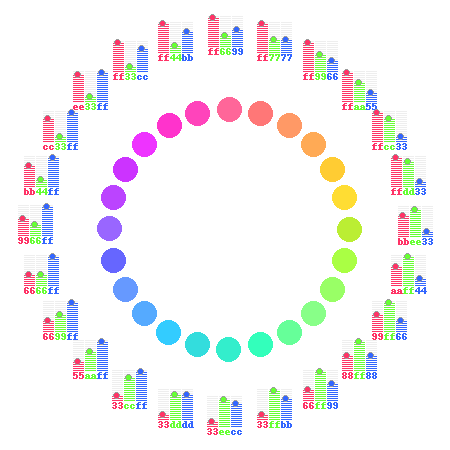
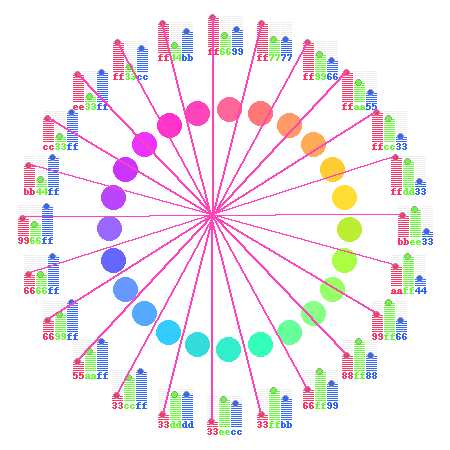
まずは赤レーザー

diff --git a/step8.py b/step8.py
@@ -1,0 +1,220 @@
+from PIL import Image, ImageDraw
+import math
+
+black = (0, 0, 0)
+red = (0xff, 0x33, 0x66)
+green = (0x66, 0xff, 0x33)
+blue = (0x33, 0x66, 0xff)
+light_gray = (0xee, 0xee, 0xee)
+white = (255, 255, 255)
+
+im = Image.new('RGB', (450, 450), white)
+draw = ImageDraw.Draw(im)
+
+
+def main():
+
+    # 0時の方向から時計回り
+    theta_list = [90, 75, 60, 45, 30, 15, 0, 345,
+                  330, 315, 300, 285, 270, 255, 240, 225, 210, 195, 180, 165, 150, 135, 120, 105]
+    # 0時を赤
+    color_list = [(0xff, 0x66, 0x99), (0xff, 0x77, 0x77),
+                  (0xff, 0x99, 0x66), (0xff, 0xaa, 0x55),
+                  (0xff, 0xcc, 0x33), (0xff, 0xdd, 0x33),
+                  (0xbb, 0xee, 0x33), (0xaa, 0xff, 0x44),
+                  (0x99, 0xff, 0x66), (0x88, 0xff, 0x88),
+                  (0x66, 0xff, 0x99), (0x33, 0xff, 0xbb),
+                  (0x33, 0xee, 0xcc), (0x33, 0xdd, 0xdd),
+                  (0x33, 0xcc, 0xff), (0x55, 0xaa, 0xff),
+                  (0x66, 0x99, 0xff), (0x66, 0x66, 0xff),
+                  (0x99, 0x66, 0xff), (0xbb, 0x44, 0xff),
+                  (0xcc, 0x33, 0xff), (0xee, 0x33, 0xff),
+                  (0xff, 0x33, 0xcc), (0xff, 0x44, 0xbb)]
+
+    # 環状 ゲージ 描画
+    gauge_center_coords = center_coords_on_ring(225, 225, 190, theta_list)
+    paint_gauge_ring(gauge_center_coords, color_list)
+
+    # 環状 色セル 描画
+    color_cell_center_coords = center_coords_on_ring(225, 225, 120, theta_list)
+    size = len(color_cell_center_coords)
+    for i in range(0, size):
+        x, y = color_cell_center_coords[i]
+
+        circle_w = 16
+
+        fill_color = color_list[i]
+        draw.ellipse((x-circle_w/2, y-circle_w/2, x +
+                      circle_w, y+circle_w), fill=fill_color)
+
+    # ３本ゲージ各天辺座標計算
+    three_gauges_top_coords = []
+    size = len(gauge_center_coords)
+    for i in range(0, size):
+        p = gauge_center_coords[i]
+        color = color_list[i]
+
+        # 黄緑の中心から見て、赤と青の中心が離れているピクセル数
+        horizontal_interval = 12
+
+        # 赤ゲージ
+        rx, ry = coord_on_gauge(p, color[0])
+        # ゲージ3+隙間1 の 4 なんでゲージは左にずれているので、その１ピクセル分調整（本来はゲージ全体を1ピクセル右にずらすのも合わせるべき）
+        rx = rx - 1 - horizontal_interval
+
+        # 緑ゲージ
+        gx, gy = coord_on_gauge(p, color[1])
+        gx = gx - 1
+
+        # 青ゲージ
+        bx, by = coord_on_gauge(p, color[2])
+        bx = bx - 1 + horizontal_interval
+
+        three_gauges_top_coords.append(((rx, ry), (gx, gy), (bx, by)))
+
+    # 赤緑青個別ゲージ座標
+    for top_coords in three_gauges_top_coords:
+
+        # １ドットの点を打つと、次の４パターンにぶれる。1ピクセル単位の精度に期待しないこと
+        #
+        # パターン１  パターン２ パターン３  パターン４
+        #  x         xx        xxx        xx
+        # x x        xx        xxx        xx
+        #  x                              xx
+        point_w = 4
+
+        # 赤ゲージ
+        x, y = top_coords[0]
+        # ゲージ3+隙間1 の 4 なんでゲージは左にずれているので、その１ピクセル分調整（本来はゲージ全体を1ピクセル右にずらすのも合わせるべき）
+        x -= 1
+        draw.ellipse((x-point_w/2, y-point_w/2, x+point_w, y+point_w), fill=red,
+                     outline=(155, 155, 155))
+
+        # 緑ゲージ
+        x, y = top_coords[1]
+        x -= 1
+        draw.ellipse((x-point_w/2, y-point_w/2, x+point_w, y+point_w), fill=green,
+                     outline=(155, 155, 155))
+
+        # 青ゲージ
+        x, y = top_coords[2]
+        x -= 1
+        draw.ellipse((x-point_w/2, y-point_w/2, x+point_w, y+point_w), fill=blue,
+                     outline=(155, 155, 155))
+
+    # 赤レーザー
+    half_size = int(len(three_gauges_top_coords)/2)
+    for i in range(0, half_size):
+        top_coords1 = three_gauges_top_coords[i]
+        top_coords2 = three_gauges_top_coords[i+half_size]
+        # 赤ゲージ１
+        src_x, src_y = top_coords1[0]
+        # 赤ゲージ２
+        dst_x, dst_y = top_coords2[0]
+
+        draw.line((src_x, src_y, dst_x, dst_y), fill=color, width=2)
+        pass
+
+    im.save('shared/pillow_imagedraw.png', quality=95)
+
+
+def center_coords_on_ring(left, top, range, theta_list):
+    coolds = []
+    for theta in theta_list:
+        x = range*math.cos(math.radians(theta))+left
+        # yは上下反転
+        y = -range*math.sin(math.radians(theta))+top
+        coolds.append((x, y))
+    return coolds
+
+
+def paint_gauge_ring(gauge_center_coords, color_list):
+    """ 環状 ゲージ 描画
+    """
+    size = len(gauge_center_coords)
+    for i in range(0, size):
+        p = gauge_center_coords[i]
+        color = color_list[i]
+        paint_gauge(p[0], p[1], color[0], color[1], color[2])
+
+
+def coord_on_gauge(p, value):
+    """RPGゲージの頂点という変なところの座標を求めます
+    """
+    half_byte = byte_to_half_byte(value)
+    # 目視で ３本ゲージ面積の矩形の中心から 11 ピクセル下が 一番下のバー
+    return p[0], p[1]+11-2*half_byte
+
+
+def paint_gauge(src_center_x, src_center_y, r, g, b):
+    # 四角を縦に16個並べる
+    # 幅0、高さ0 で、 1x1 の矩形になる。ブラシの太さ1が関係する？
+    w = 10
+    h = 0
+
+    # フォントのだいたいの高さ
+    font_height = 8
+
+    # ゲージの矩形面積をだいたい計算
+    gauge_w = 3*(w+2)-2
+    gauge_h = 16*(h+2)+font_height-2
+
+    # 中心座標を 左上起点座標に変更
+    src_x = src_center_x - gauge_w/2
+    src_y = src_center_y - gauge_h/2
+
+    # ゲージの面積をだいたい視覚化
+    # draw.rectangle((src_x, src_y, gauge_w+src_x,
+    #                gauge_h+src_y), outline=black)
+
+    # 赤ゲージ
+    paint_one_color_gauge(src_x, src_y, w, h, r, red)
+
+    # 青ゲージ
+    paint_one_color_gauge(src_x+w+2, src_y, w, h, g, green)
+
+    # 緑ゲージ
+    paint_one_color_gauge(src_x+2*(w+2), src_y, w, h, b, blue)
+
+    y = gauge_h+src_y-font_height
+    x = src_x
+    draw.text((x, y), f"{r:02x}", red)
+    x += w+2
+    draw.text((x, y), f"{g:02x}", green)
+    x += w+2
+    draw.text((x, y), f"{b:02x}", blue)
+
+
+def paint_one_color_gauge(src_left, src_top, w, h, value, fill_color):
+    """一色ゲージ
+    Parameters
+    ----------
+    value : int
+        0...255
+    """
+
+    half_byte = byte_to_half_byte(value)
+
+    y = src_top
+    for i in range(0, 16):
+        x = src_left
+
+        if half_byte < (16-i):
+            fc = light_gray
+        else:
+            fc = fill_color
+
+        draw.rectangle((x, y, x+w, y+h), fill=fc, outline=None)
+
+        # 2px は開けないと、くっついている。 +1 だと隣なので
+        y += h+2
+    pass
+
+
+def byte_to_half_byte(value):
+    """0～255を、0～15に縮めます
+    """
+    return int(value/16)
+
+
+main()
